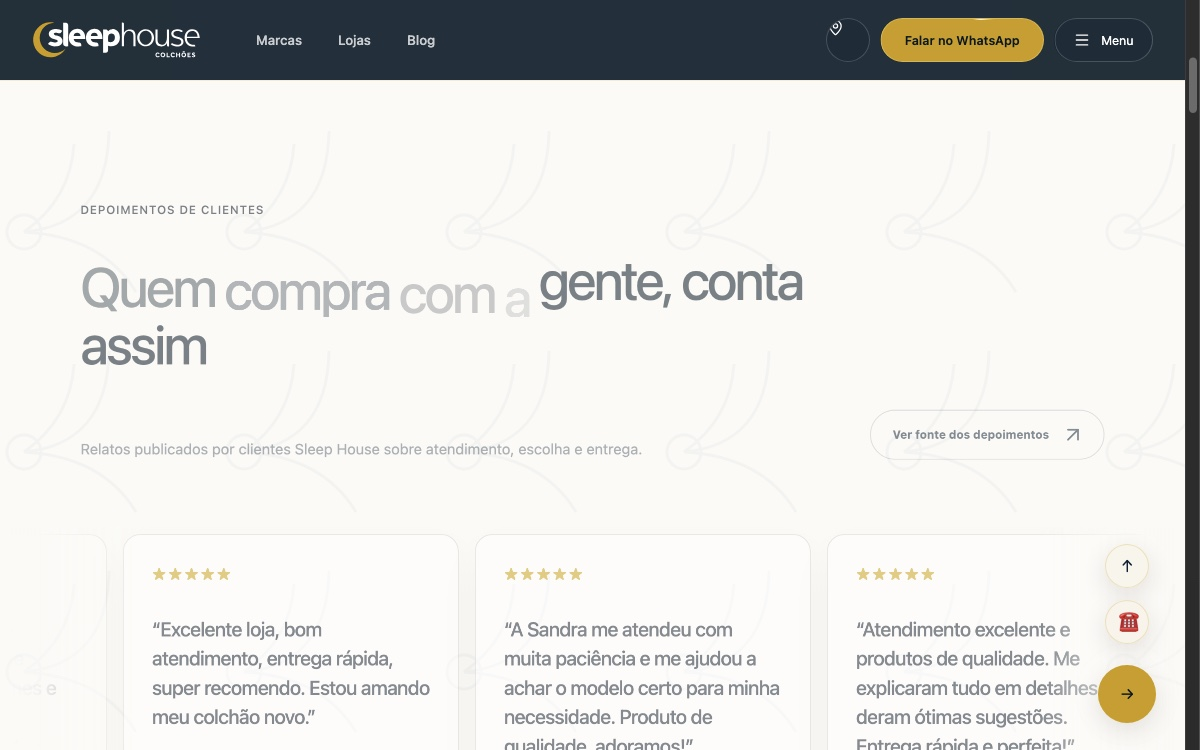
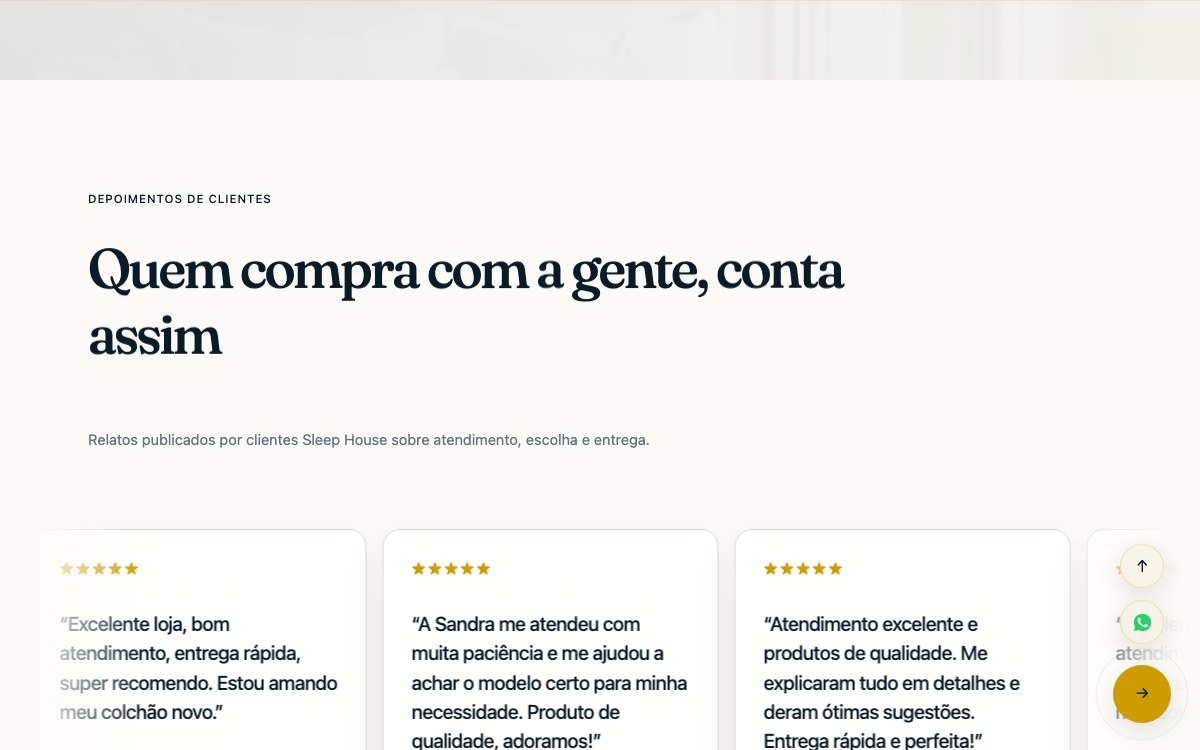
Update global styles for testimonials and modify screenshot asset

diff --git a/app/globals.css b/app/globals.css
@@ -3135,6 +3135,7 @@ html[data-cursor-interactive] .custom-cursor-ring {
 .lp-testimonials-marquee {
   position: relative;
   width: 100%;
+  margin-block: -2rem -3rem;
   overflow: hidden;
 }
 
@@ -3163,7 +3164,7 @@ html[data-cursor-interactive] .custom-cursor-ring {
   display: flex;
   gap: 1rem;
   width: max-content;
-  padding-block: 0.45rem 1.6rem;
+  padding-block: 2.5rem 4.5rem;
   animation: lp-testimonials-marquee 34s linear infinite;
   will-change: transform;
 }
